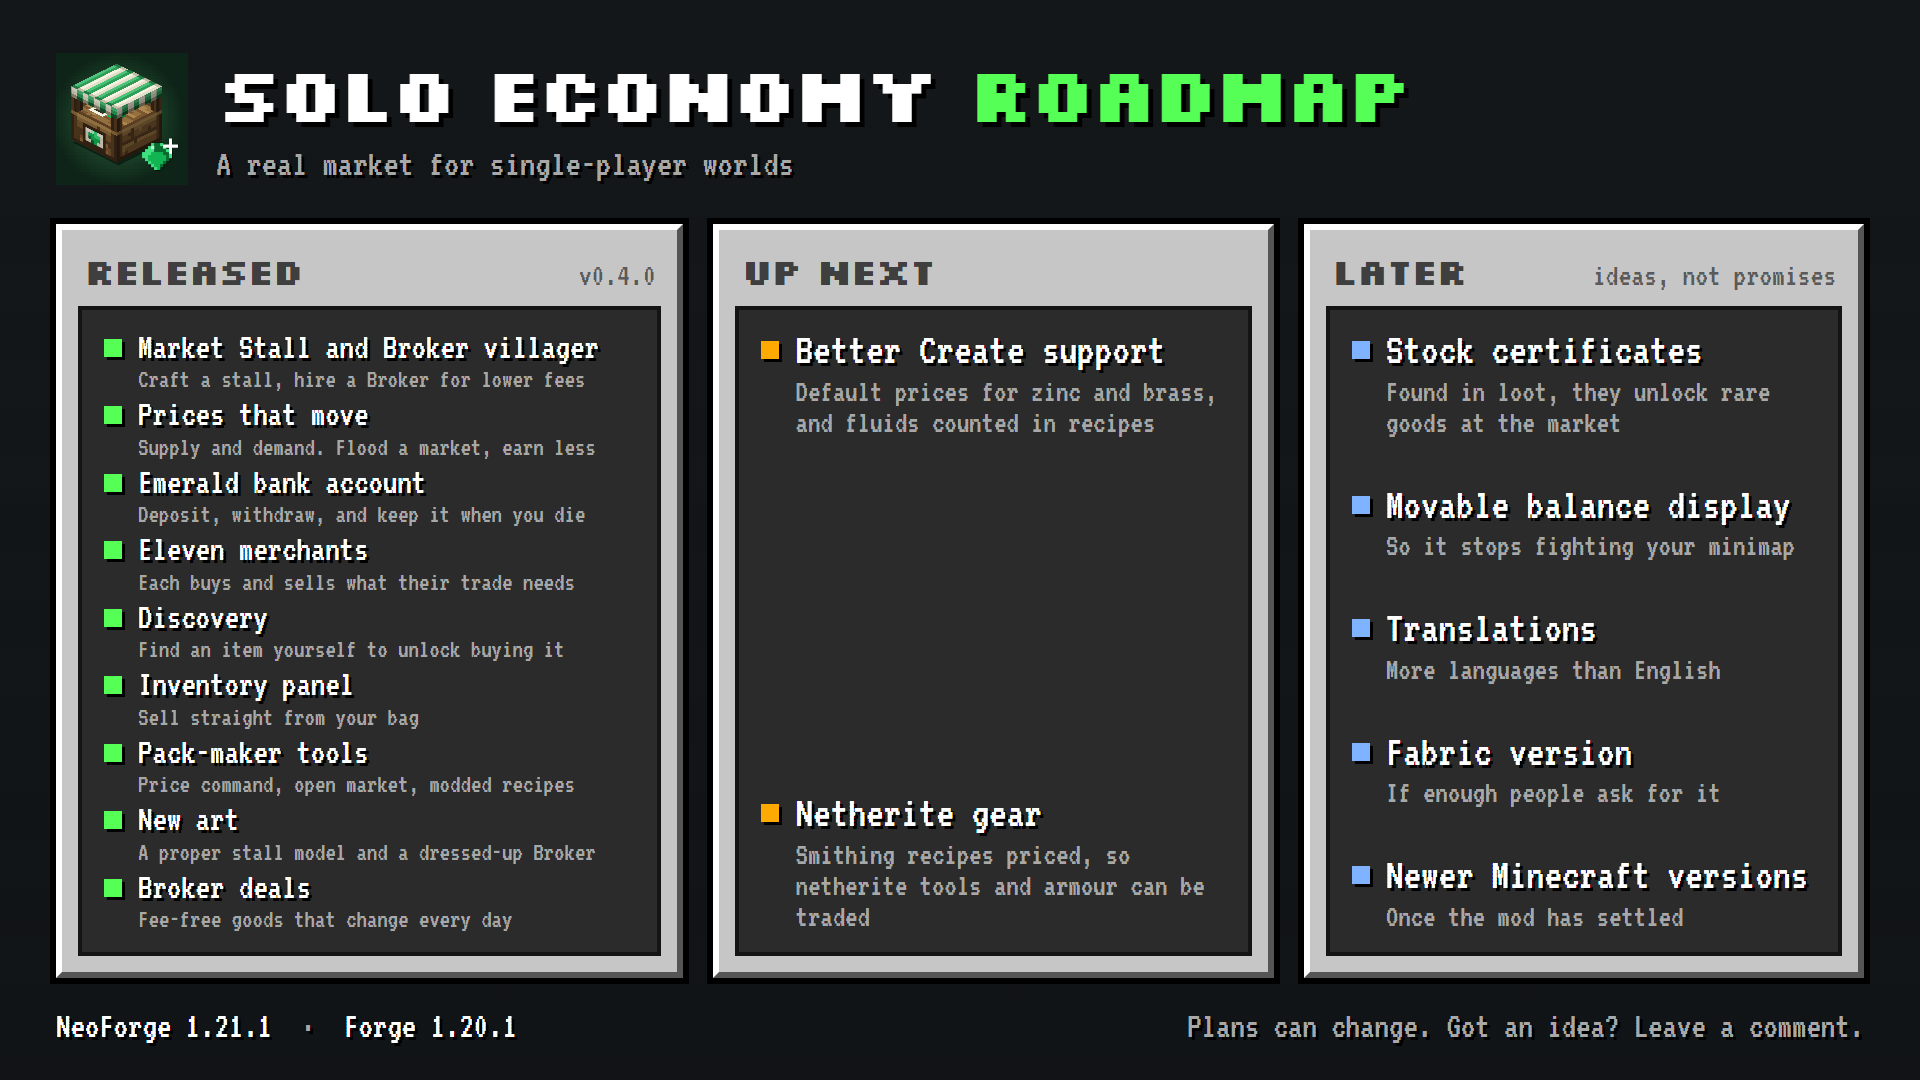
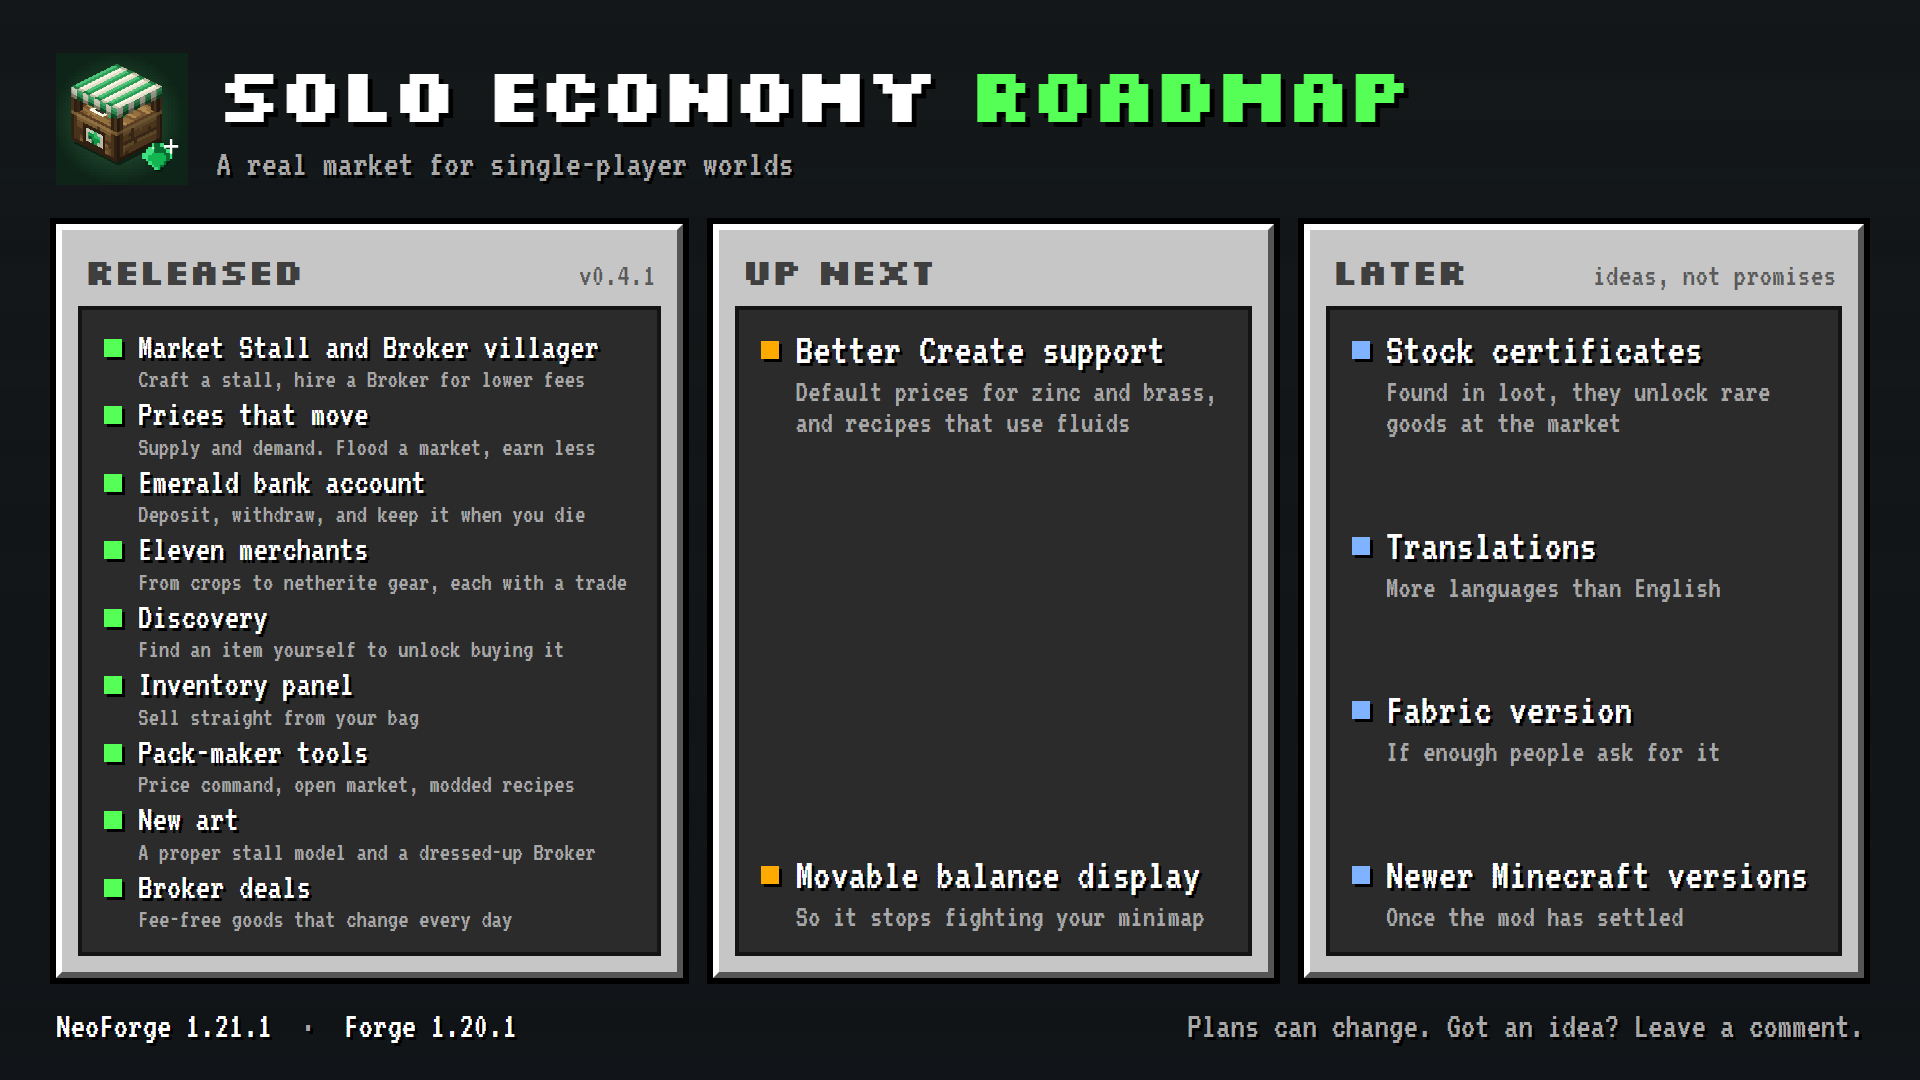
Netherite gear, and pricing fixes found testing Create on 1.20.1 (0.4.1)
- Price smithing upgrades, so the Smith trades netherite tools, armour
  and the upgrade template
- Fix the price search crediting returned containers while their own
  price was still being worked out, which could misprice sugar and open
  a craft-for-profit loop with modRecipes on
- Skip modded recipes that take or give fluids instead of treating the
  fluid as free
- Reprice items a modded machine undercuts at zero spread

diff --git a/curseforge/roadmap.html b/curseforge/roadmap.html
@@ -97,12 +97,12 @@
 
   <main>
     <section class="panel done">
-      <h2>Released <small>v0.4.0</small></h2>
+      <h2>Released <small>v0.4.1</small></h2>
       <div class="box">
         <div class="item"><i></i><div><b>Market Stall and Broker villager</b><p>Craft a stall, hire a Broker for lower fees</p></div></div>
         <div class="item"><i></i><div><b>Prices that move</b><p>Supply and demand. Flood a market, earn less</p></div></div>
         <div class="item"><i></i><div><b>Emerald bank account</b><p>Deposit, withdraw, and keep it when you die</p></div></div>
-        <div class="item"><i></i><div><b>Eleven merchants</b><p>Each buys and sells what their trade needs</p></div></div>
+        <div class="item"><i></i><div><b>Eleven merchants</b><p>From crops to netherite gear, each with a trade</p></div></div>
         <div class="item"><i></i><div><b>Discovery</b><p>Find an item yourself to unlock buying it</p></div></div>
         <div class="item"><i></i><div><b>Inventory panel</b><p>Sell straight from your bag</p></div></div>
         <div class="item"><i></i><div><b>Pack-maker tools</b><p>Price command, open market, modded recipes</p></div></div>
@@ -114,8 +114,8 @@
     <section class="panel next">
       <h2>Up next</h2>
       <div class="box">
-        <div class="item"><i></i><div><b>Better Create support</b><p>Default prices for zinc and brass, and fluids counted in recipes</p></div></div>
-        <div class="item"><i></i><div><b>Netherite gear</b><p>Smithing recipes priced, so netherite tools and armour can be traded</p></div></div>
+        <div class="item"><i></i><div><b>Better Create support</b><p>Default prices for zinc and brass, and recipes that use fluids</p></div></div>
+        <div class="item"><i></i><div><b>Movable balance display</b><p>So it stops fighting your minimap</p></div></div>
       </div>
     </section>
 
@@ -123,7 +123,6 @@
       <h2>Later <small>ideas, not promises</small></h2>
       <div class="box">
         <div class="item"><i></i><div><b>Stock certificates</b><p>Found in loot, they unlock rare goods at the market</p></div></div>
-        <div class="item"><i></i><div><b>Movable balance display</b><p>So it stops fighting your minimap</p></div></div>
         <div class="item"><i></i><div><b>Translations</b><p>More languages than English</p></div></div>
         <div class="item"><i></i><div><b>Fabric version</b><p>If enough people ask for it</p></div></div>
         <div class="item"><i></i><div><b>Newer Minecraft versions</b><p>Once the mod has settled</p></div></div>

diff --git a/src/main/java/com/soloeconomy/market/MarketCatalog.java b/src/main/java/com/soloeconomy/market/MarketCatalog.java
@@ -18,10 +18,13 @@ import net.minecraft.world.item.crafting.Recipe;
 import net.minecraft.world.item.crafting.RecipeHolder;
 import net.minecraft.world.item.crafting.RecipeManager;
 import net.minecraft.world.item.crafting.SingleItemRecipe;
+import net.minecraft.world.item.crafting.SmithingTransformRecipe;
 
 import javax.annotation.Nullable;
 
+import java.lang.reflect.Field;
 import java.util.ArrayList;
+import java.util.Collection;
 import java.util.Collections;
 import java.util.Comparator;
 import java.util.HashMap;
@@ -201,7 +204,8 @@ public final class MarketCatalog {
         // sand into quartz - which is a real money machine in that world. Price those items from
         // their recipes instead, until the audit comes back clean.
         for (int round = 0; round < 8 && EconomyConfig.INSTANCE.modRecipes.get(); round++) {
-            List<Item> undercut = catalog.loopRisks.stream().map(MarketAudit.LoopRisk::result)
+            // At no spread at all, so not even a fee-free Broker deal leaves a margin.
+            List<Item> undercut = MarketAudit.findLoops(catalog, nodes, 0.0D).stream().map(MarketAudit.LoopRisk::result)
                     .filter(primitives::containsKey).distinct().toList();
             if (undercut.isEmpty()) {
                 break;
@@ -225,9 +229,15 @@ public final class MarketCatalog {
                                           List<CraftPath> nodes) {
         // Static prices exist only to decide which option in a tag-based ingredient slot is the
         // cheapest. They never reach a player.
+        // Twice: first without crediting returned containers, to learn what a bucket or a bottle is
+        // worth, then for real with those values fixed. Crediting them while they are still being
+        // worked out let a bottle be briefly valued at a honey bottle's price (Create empties one
+        // into the other), which made honey look like a free way to make sugar - and stuck.
+        Map<Item, Double> containers = new HashMap<>(primitives);
+        relax(containers, new HashMap<>(), nodes, primitives.keySet(), Map.of());
         Map<Item, Double> estimates = new HashMap<>(primitives);
         Map<Item, CraftPath> paths = new HashMap<>();
-        relax(estimates, paths, nodes, primitives.keySet());
+        relax(estimates, paths, nodes, primitives.keySet(), containers);
 
         Map<Item, Bundle> bundles = new HashMap<>();
         Set<Item> failed = new HashSet<>();
@@ -320,7 +330,8 @@ public final class MarketCatalog {
     private static void relax(Map<Item, Double> estimates,
                               Map<Item, CraftPath> paths,
                               List<CraftPath> nodes,
-                              Set<Item> pinned) {
+                              Set<Item> pinned,
+                              Map<Item, Double> containers) {
         boolean derive = EconomyConfig.INSTANCE.deriveUnpricedItems.get();
         Map<Item, Double> bestPathCost = new HashMap<>();
 
@@ -336,7 +347,7 @@ public final class MarketCatalog {
                     for (Item choice : choices) {
                         Double price = estimates.get(choice);
                         if (price != null) {
-                            best = Math.min(best, price - remainderEstimate(choice, estimates));
+                            best = Math.min(best, price - remainderEstimate(choice, containers));
                         }
                     }
                     if (best == Double.MAX_VALUE) {
@@ -519,8 +530,10 @@ public final class MarketCatalog {
             if (!reads(recipe)) {
                 continue;
             }
-            boolean modded = !(recipe instanceof CraftingRecipe || recipe instanceof AbstractCookingRecipe
-                    || recipe instanceof SingleItemRecipe);
+            boolean modded = !vanillaType(recipe);
+            if (modded && usesFluids(recipe)) {
+                continue;
+            }
 
             ItemStack result;
             try {
@@ -537,7 +550,7 @@ public final class MarketCatalog {
                 continue;
             }
 
-            List<Ingredient> ingredients = recipe.getIngredients();
+            List<Ingredient> ingredients = ingredients(recipe);
             if (ingredients.isEmpty()) {
                 continue; // map cloning, firework crafting and friends have no fixed inputs
             }
@@ -574,6 +587,51 @@ public final class MarketCatalog {
     }
 
     /**
+     * A smithing upgrade doesn't list its ingredients and keeps them private, so they are read off
+     * its fields: template, base and addition, all used up. Which is which doesn't matter here.
+     */
+    private static List<Ingredient> ingredients(Recipe<?> recipe) {
+        if (!(recipe instanceof SmithingTransformRecipe)) {
+            return recipe.getIngredients();
+        }
+        List<Ingredient> ingredients = new ArrayList<>(3);
+        try {
+            for (Field field : SmithingTransformRecipe.class.getDeclaredFields()) {
+                if (field.getType() == Ingredient.class) {
+                    field.setAccessible(true);
+                    ingredients.add((Ingredient) field.get(recipe));
+                }
+            }
+        } catch (ReflectiveOperationException | RuntimeException e) {
+            return List.of(); // unreadable: leave the item unpriced rather than underprice it
+        }
+        return ingredients;
+    }
+
+    /**
+     * Create-style recipes can take or give fluids, and fluids have no price here. Reading one as
+     * though the honey or lava were free underprices what it makes (a honey bottle for the price
+     * of its bottle), so those recipes are left out. Read by method name, like the chances below.
+     */
+    private static boolean usesFluids(Recipe<?> recipe) {
+        for (String getter : new String[] {"getFluidIngredients", "getFluidResults"}) {
+            try {
+                if (!((Collection<?>) recipe.getClass().getMethod(getter).invoke(recipe)).isEmpty()) {
+                    return true;
+                }
+            } catch (ReflectiveOperationException | ClassCastException e) {
+                // not a recipe type with fluids
+            }
+        }
+        return false;
+    }
+
+    private static boolean vanillaType(Recipe<?> recipe) {
+        return recipe instanceof CraftingRecipe || recipe instanceof AbstractCookingRecipe
+                || recipe instanceof SingleItemRecipe || recipe instanceof SmithingTransformRecipe;
+    }
+
+    /**
      * How many of {@code item} a modded recipe makes on average. Create-style recipes list outputs
      * with a chance (crushing gravel gives flint 25% of the time); counting those as certain would
      * price flint at a quarter of what it costs. Read by method name so Create isn't a dependency.
@@ -594,14 +652,13 @@ public final class MarketCatalog {
     }
 
     /**
-     * Crafting, smelting and stonecutting always. Any other recipe - Create machines, modded
+     * Crafting, smelting, stonecutting and smithing upgrades always. Any other recipe - Create machines, modded
      * workbenches - only with modRecipes on, since all we can see is its ingredient list and main
-     * result: fluids, per-slot counts, chance byproducts and tools that aren't used up are
-     * invisible, and the last two can overprice an item beyond what the audit can check.
+     * result: per-slot counts, chance byproducts and tools that aren't used up are invisible, and
+     * the last two can overprice an item beyond what the audit can check.
      */
     static boolean reads(Recipe<?> recipe) {
-        if (recipe instanceof CraftingRecipe || recipe instanceof AbstractCookingRecipe
-                || recipe instanceof SingleItemRecipe) {
+        if (vanillaType(recipe)) {
             return true;
         }
         // Not filtered on isSpecial(): Create marks every machine recipe special to keep it out of

diff --git a/src/main/java/com/soloeconomy/gametest/EconomyGameTests.java b/src/main/java/com/soloeconomy/gametest/EconomyGameTests.java
@@ -36,6 +36,7 @@ import net.neoforged.neoforge.gametest.PrefixGameTestTemplate;
 
 import java.util.ArrayList;
 import java.util.List;
+import java.util.Map;
 import java.util.stream.Collectors;
 
 /**
@@ -185,6 +186,29 @@ public final class EconomyGameTests {
         if (after >= before) {
             helper.fail(String.format("Dumping diamond blocks left the diamond price at %.3f (was %.3f)",
                     after, before));
+        }
+        helper.succeed();
+    }
+
+    /**
+     * Netherite gear comes off a smithing table, not a crafting grid. It must still be priced, as
+     * the diamond tool plus an ingot plus the template the upgrade uses up.
+     *
+     * <p>Guards against: smithing recipes being skipped, which left netherite gear untradeable.
+     */
+    @GameTest(template = TEMPLATE)
+    public static void netheriteGearIsPricedFromSmithing(GameTestHelper helper) {
+        MarketCatalog catalog = buildCatalog(helper);
+        MarketCatalog.Bundle sword = catalog.bundle(Items.NETHERITE_SWORD);
+        if (sword == null || !catalog.isTradeable(Items.NETHERITE_SWORD)) {
+            helper.fail("A netherite sword has no price or no merchant");
+            return;
+        }
+        Map<Item, Double> in = sword.contents();
+        if (Math.abs(in.getOrDefault(Items.ANCIENT_DEBRIS, 0.0D) - 4.0D) > EPSILON
+                || Math.abs(in.getOrDefault(Items.DIAMOND, 0.0D) - 2.0D) > EPSILON
+                || Math.abs(in.getOrDefault(Items.NETHERITE_UPGRADE_SMITHING_TEMPLATE, 0.0D) - 1.0D) > EPSILON) {
+            helper.fail("A netherite sword should be 4 debris, 2 diamonds and a template, but is " + in);
         }
         helper.succeed();
     }

diff --git a/README.md b/README.md
@@ -199,18 +199,20 @@ keys `merchant.soloeconomy.<id>` and `merchant.soloeconomy.<id>.desc`.
 
 ### Other mods' items
 
-Items crafted, smelted or stonecut from priced materials get a price automatically. With
+Items crafted, smelted, stonecut or upgraded at a smithing table from priced materials get a price automatically. With
 `modRecipes = true` the market also reads any other recipe type that lists its ingredients, such as
 Create's machines and modded workbenches:
 
 - Outputs with a chance (Create's crushing byproducts) are priced by how many you get on average.
 - When a modded machine makes a hand-priced item for less than its price (Create haunts soul sand
   into quartz), that item is priced from the machine instead, so it can't be farmed for money.
-- It is best effort. Only a recipe's ingredient list and results are visible, so fluids aren't
-  counted and a slot that needs several of one item may count once.
+- Recipes that take or give a fluid are skipped. Fluids have no price, and counting honey or lava
+  as free would underprice what they make.
+- It is best effort. Only a recipe's ingredient list and results are visible, so a slot that needs
+  several of one item may count once.
 
 Modded items are only bought and sold with `openMarket` on, or when a datapack lists them under a
-merchant. Tested against Create 6 on 1.21.1: 430 of its 699 items get a price, with a clean audit.
+merchant. Tested against Create 6.0.8 on both versions, with a clean audit.
 
 ## Building
 
@@ -227,7 +229,7 @@ On 1.21.1, `-PwithCreate` adds Create to the dev runs without shipping it.
 
 ## Tests
 
-`runGameTestServer` runs thirteen GameTests against the real recipe set and exits non-zero on failure:
+`runGameTestServer` runs fourteen GameTests against the real recipe set and exits non-zero on failure:
 
 | test | guards against |
 | --- | --- |
@@ -242,6 +244,7 @@ On 1.21.1, `-PwithCreate` adds Create to the dev runs without shipping it.
 | carrying an item unlocks buying it | discovery unlocking too much, or nothing |
 | open market trades everything safely | a loop appearing once every priced item is tradeable |
 | daily dumping hits diminishing returns | a 1000-logs-a-day farm earning 8,200 emeralds a month |
+| netherite gear is priced from smithing | smithing recipes being skipped, leaving netherite gear untradeable |
 | broker deals never pay to flip | a fee-free buy that sells straight back for more |
 | mod recipes price machine outputs | modded recipes read when off, or chance outputs counted as certain |
 
@@ -261,8 +264,7 @@ On 1.21.1, `-PwithCreate` adds Create to the dev runs without shipping it.
 
 ## Known limitations
 
-- Netherite tools and armour aren't tradeable yet: smithing recipes don't list their ingredients the
-  way crafting does. Potions, spawn eggs, music discs and pottery sherds have no price either.
+- Potions, spawn eggs, music discs, pottery sherds and armour trims have no price.
 - The balance display sits in the top-right corner and can't be moved yet.
 - Built for single-player. On a server, every player shares one market.
 - English only.

diff --git a/curseforge/description.md b/curseforge/description.md
@@ -36,7 +36,7 @@ Not everything is for sale. Every tradeable item has someone with a reason to wa
 | Fisherman | fish, kelp, prismarine |
 | Woodcutter | logs, planks, chests |
 | Mason | stone, sand, clay, bricks |
-| Smith | ores, ingots, iron gear |
+| Smith | ores, ingots, iron and netherite gear |
 | Collector | diamonds, netherite, rare finds |
 | Cleric | mob drops and brewing ingredients |
 | Tailor | wool, leather, dyes |
@@ -52,7 +52,7 @@ Not everything is for sale. Every tradeable item has someone with a reason to wa
 - **Supply tooltips** tell you whether an item is oversupplied or in demand right now
 
 ### 📈 Prices that move
-- **259 tradeable items** in vanilla
+- **269 tradeable items** in vanilla
 - **Selling lowers the price, buying raises it.** A stack of diamonds moves the diamond price about 30%. Cheap goods like cobblestone have deep markets and barely move, but a double chest of it still will.
 - **Markets recover slowly**, about halfway back to normal in a week. Selling a stack now and then pays well; dumping a farm's output every day drives that price down and keeps it there.
 - **Bulk trades are priced unit by unit**, so selling 64 at once is never worse than selling them one at a time. There's no reason to click 64 times.
@@ -110,8 +110,8 @@ About 225 raw materials have set prices. Everything else is priced from the ingr
 
 This is an early release.
 
-- **Not yet tradeable:** netherite tools and armour (smithing recipes aren't supported yet), potions, spawn eggs, music discs, pottery sherds and smithing templates.
-- **Modded items** are traded with `openMarket` on or when a datapack lists them under a merchant. Items from modded machines and workbenches need `modRecipes` on, and some may need a price set by hand.
+- **Not yet tradeable:** potions, spawn eggs, music discs, pottery sherds and armour trims.
+- **Modded items** are traded with `openMarket` on or when a datapack lists them under a merchant. Items from modded machines and workbenches need `modRecipes` on, and some (anything made with a fluid, for one) need a price set by hand.
 - **The balance display** sits in the top-right corner and may overlap a minimap.
 - **Built for single-player.** On a server, all players share one market.
 - **English only.**

diff --git a/CHANGELOG.md b/CHANGELOG.md
@@ -1,3 +1,25 @@
+# Solo Economy 0.4.1
+
+**Minecraft 1.21.1 · NeoForge (built on 21.1.209) · Java 21**
+
+## Netherite gear
+
+Netherite tools and armour can be traded now. The **Smith** deals in all nine pieces, plus the Netherite Upgrade template you need to make them.
+
+A netherite sword is priced as what goes into it: the diamond sword, a netherite ingot, and the template the smithing table uses up. Like everything else, you have to find one yourself before you can buy it.
+
+## Fixes
+
+- **Sugar could be mispriced with Create installed.** With `modRecipes` on, the market could decide the cheapest way to make sugar was from honey bottles, price it at three times what sugar cane costs, and let you craft cane into sugar for a profit. The price search behind this is fixed, and it's fixed for every item that hands back a bottle or a bucket, not only sugar.
+- **Recipes that use fluids are now left out** when reading other mods' recipes. Fluids have no price, so a Create recipe that fills a bottle with honey used to price a honey bottle like an empty bottle. With `openMarket` on as well, that could leave sugar and glass bottles with no price at all.
+- With `modRecipes` on, an item a modded machine makes cheaply is now repriced even when the profit would only show up with no fee, so a Broker deal can't open a gap.
+
+## Create
+
+Tested with Create 6.0.8 on both Minecraft versions now, with `modRecipes` and `openMarket` on: every priced item trades and no recipe can be crafted and sold at a profit.
+
+---
+
 # Solo Economy 0.4.0
 
 **Minecraft 1.21.1 · NeoForge (built on 21.1.209) · Java 21**
